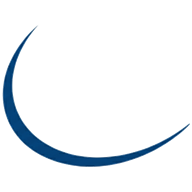
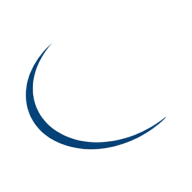
fix(pwa): iconos sólidos para taskbar windows y actualiza cache version

diff --git a/app/generate-solid-icons.js b/app/generate-solid-icons.js
@@ -1,0 +1,55 @@
+const fs = require('fs');
+const { createCanvas, loadImage } = require('canvas');
+const path = require('path');
+
+async function generateSolidIcon(sourcePath, outputDir, fileName, size, paddingPercent = 0.8) {
+    const canvas = createCanvas(size, size);
+    const ctx = canvas.getContext('2d');
+
+    // 1. Fondo Blanco Sólido
+    ctx.fillStyle = '#ffffff';
+    ctx.fillRect(0, 0, size, size);
+
+    // 2. Cargar imagen original transparente
+    const image = await loadImage(sourcePath);
+
+    // 3. Calcular padding para que respire en la barra de tareas
+    const drawSize = size * paddingPercent;
+    const offset = (size - drawSize) / 2;
+
+    // 4. Dibujar la imagen centrada y escalada
+    ctx.drawImage(image, offset, offset, drawSize, drawSize);
+
+    // 5. Guardar
+    const buffer = canvas.toBuffer('image/png');
+    fs.writeFileSync(path.join(outputDir, fileName), buffer);
+    console.log(`Generado ícono sólido: ${fileName} (${size}x${size})`);
+}
+
+async function main() {
+    const publicDir = path.join(__dirname, 'public');
+    const appDir = path.join(__dirname, 'app');
+
+    // Asumimos que public/logo.png o icon-512.png original sirve de base.
+    // Usaremos icon-512.png como fuente transpartente. Si ya lo sobreescribimos, lo recargamos.
+    // Pero si ya es opaco se verá igual, vamos a usarlo.
+    const sourceImage = path.join(publicDir, 'icon-512.png');
+
+    console.log('Generando íconos de PWA con fondo sólido...');
+
+    // PWA Manifest Icons
+    await generateSolidIcon(sourceImage, publicDir, 'icon-192.png', 192, 0.75);
+    await generateSolidIcon(sourceImage, publicDir, 'icon-512.png', 512, 0.75);
+
+    // Maskable icons (necesitan estar dentro del "safe zone" circular)
+    await generateSolidIcon(sourceImage, publicDir, 'icon-192-maskable.png', 192, 0.65);
+    await generateSolidIcon(sourceImage, publicDir, 'icon-512-maskable.png', 512, 0.65);
+
+    // Next.js Root Icons
+    await generateSolidIcon(sourceImage, appDir, 'icon.png', 512, 0.75);
+    await generateSolidIcon(sourceImage, appDir, 'apple-icon.png', 512, 0.75);
+
+    console.log('¡Íconos re-generados con fondo blanco exitosamente!');
+}
+
+main().catch(console.error);

diff --git a/app/app/layout.tsx b/app/app/layout.tsx
@@ -10,7 +10,7 @@ export const metadata: Metadata = {
   description: "Tu punto de venta y gestión de negocios inteligente. Haz crecer tu emprendimiento al siguiente nivel.",
   manifest: "/manifest.json",
   icons: {
-    apple: "/pwa-icon.png?v=perfect6",
+    apple: "/apple-icon.png?v=solid7",
   },
   openGraph: {
     title: "Emprende SaaS & POS",
